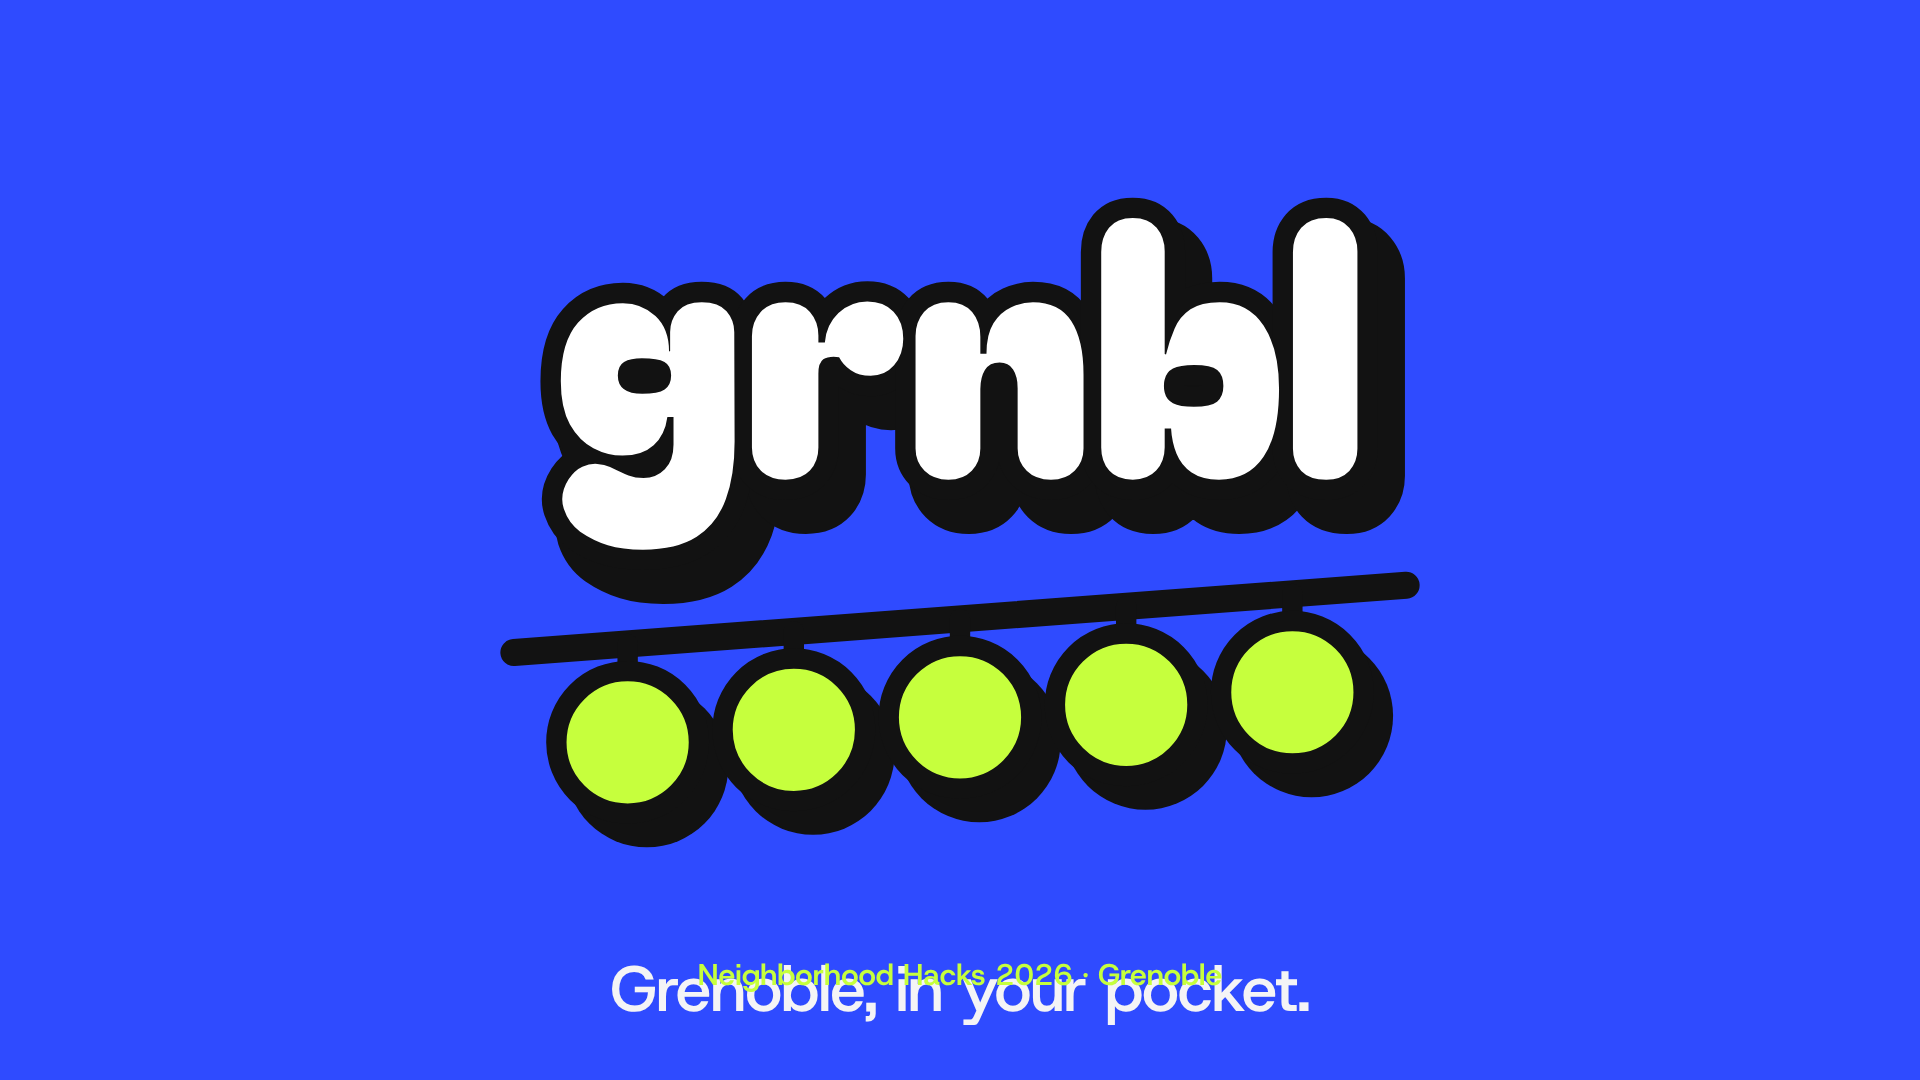
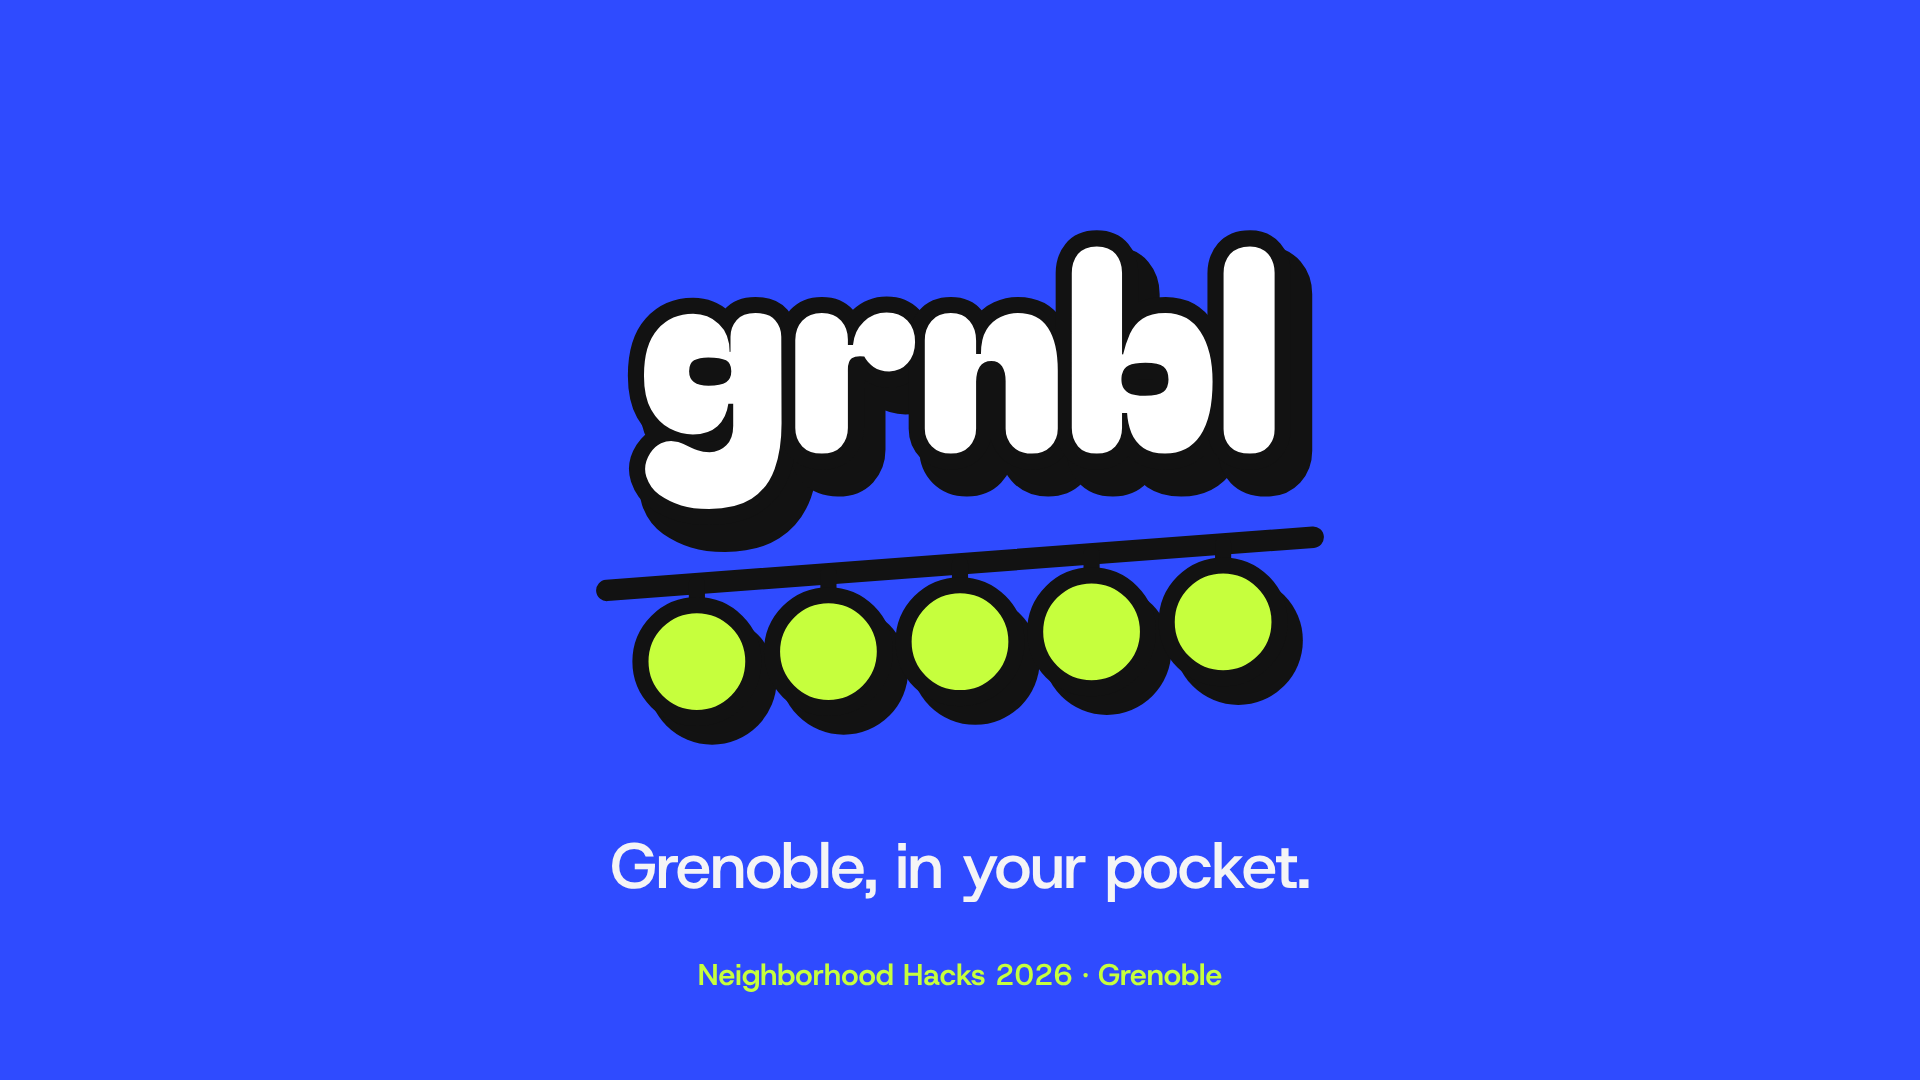
Brand: video title, intertitles, end card and lower thirds

Changed region(s): [[0.25, 0.1833, 0.75, 0.825], [0.3125, 0.8861, 0.6875, 0.9472]]

diff --git a/brand/render/lib.js b/brand/render/lib.js
@@ -43,6 +43,9 @@ function drawLogo(svg, pad = 10) {
   hang(g, spread(W * .09, W * .91, 5), cy, 21, 8, 6);
   stickerText(g, "grnbl");
   fit(svg, pad);
+  // Height from the viewBox, so the logo takes its real place in the layout.
+  const vb = svg.viewBox.baseVal;
+  svg.style.height = (svg.getBoundingClientRect().width * vb.height / vb.width) + "px";
 }
 
 // Icon B of logo-7.html: three bubbles under the cable, drawn in a 200 x 200 box centred on 0,0.
